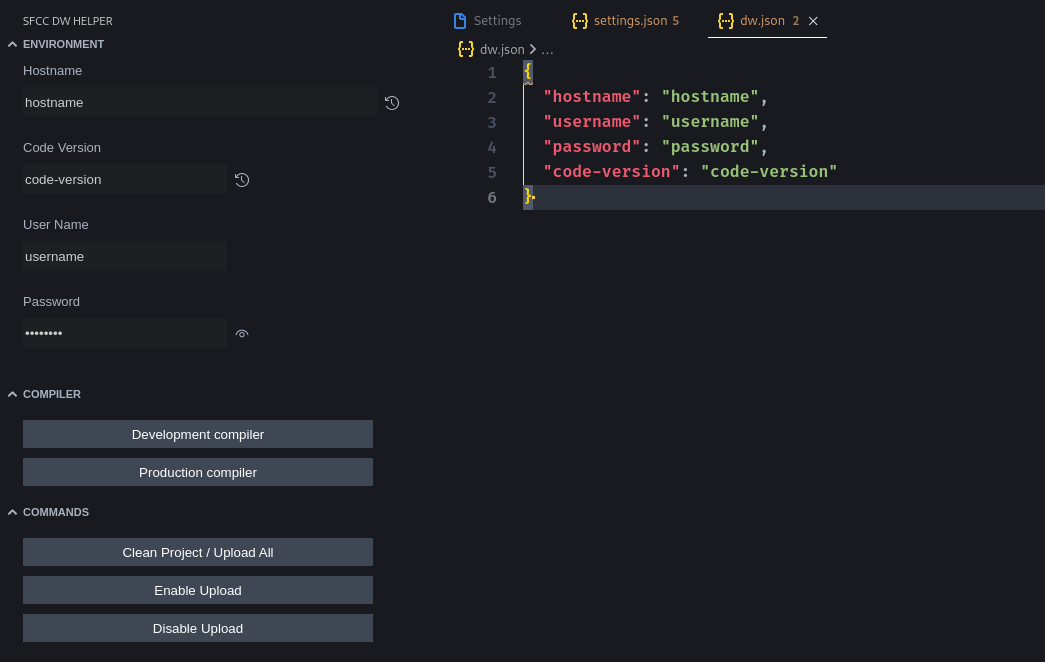
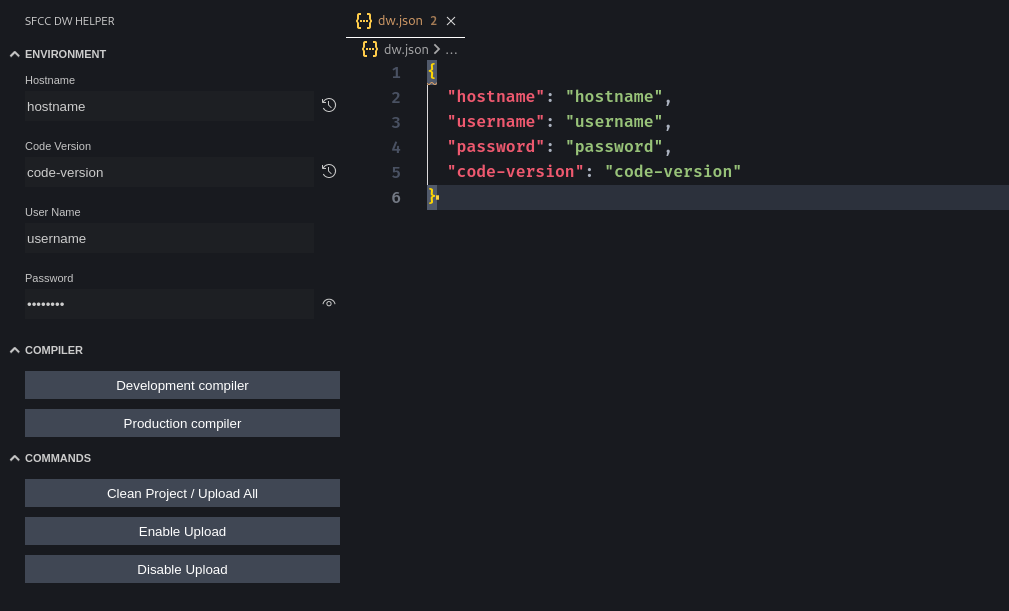
Layout fixes

diff --git a/src/webviews/components/Sidebar.svelte b/src/webviews/components/Sidebar.svelte
@@ -127,6 +127,7 @@
         font-family: Segoe WPC,Segoe UI,sans-serif;
         font-size: 13px;
         padding-right: 20px;
+        overflow-x: hidden;
     }
 
     input {
@@ -139,7 +140,7 @@
 
     input:focus{
         outline-offset: -1px;
-        outline-color: var(--vscode-focusBorder);
+        outline-color: var(--vscode-input-foreground);
     }
 
     button {
@@ -155,44 +156,42 @@
         background-color: var(--vscode-button-hoverBackground);
     }
 
-    button:focus{
-        outline-offset: -1px;
-        outline-color: var(--vscode-focusBorder);
-    }
+    button:focus {
+      outline: none;
+  }
     
     div#main{
-       min-width: 360px;
+       min-width: 315px;
        margin-top: 5px;
     }
     #hostname {
        margin-bottom: 10px; 
        width: 100%;
-       max-width: 325px;
+       width: 285px;
     }
     #codeVersion {
        margin-bottom: 10px; 
        width: 100%;
-       max-width: 200px;
+       width: 285px;
     }
     #userName {
        margin-bottom: 10px; 
        width: 100%;
-       max-width: 200px; 
+       width: 285px; 
     }
     #password {
        margin-bottom: 10px; 
        width: 100%;
-       max-width: 200px;
+       width: 285px;
     }
     
     #btnSvgPassword {
        width: 28px;
        height: 28px;
-       left: 225px;
+       left: 310px;
        position: absolute;
        color: transparent;
        background-color: transparent;
-       margin-top: 6px;
     }
 
     #btnSvgPassword:hover {
@@ -202,11 +201,10 @@
     #btnSvgHostname {
        width: 28px;
        height: 28px;
-       left: 350px;
+       left: 310px;
        position: absolute;
        color: transparent;
        background-color: transparent;
-       margin-top: 6px;
     }
 
     #btnSvgHostname:hover {
@@ -216,11 +214,28 @@
     #btnSvgCodeversion {
        width: 28px;
        height: 28px;
-       left: 225px;
+       left: 310px;
        position: absolute;
        color: transparent;
        background-color: transparent;
-       margin-top: 6px;
+    }
+
+    #svgLogoHistoryHostname {
+        left: 313px;
+        position: absolute;
+        top: 47px;
+    }
+
+    #svgLogoHistoryCodeversion {
+        left: 313px;
+        position: absolute;
+        top: 113px;
+    }
+
+    #svgLogoPassword {
+        left: 313px;
+        position: absolute;
+        top: 245px;
     }
 
     #btnSvgCodeversion:hover {
@@ -241,16 +256,14 @@
 
     .btn-prophet {
         width: 100%;
-        min-width: 250px;
+        width: 315px;
         margin-top: 10px;
-        max-width: 350px;
     }
 
     .btn-build {
         width: 100%;
-        min-width: 250px;
+        width: 315px;
         margin-top: 10px;
-        max-width: 350px;
     }
 
     .textInput {
@@ -276,7 +289,10 @@
                     changeJsonFile();
                 }} type="text" id="hostname">
         
-                <svelte:component this={History} />
+                <div id="svgLogoHistoryHostname">
+                    <svelte:component this={History} />
+                </div>
+
                 <button id="btnSvgHostname" on:click={()=>{
                     clickBtnHistory(hostnameConstant);
                 }}></button>  
@@ -289,8 +305,11 @@
                     changeProperty(e.target.value, codeversionPropertyShort);
                     changeJsonFile();
                 }} type="text" id="codeVersion">
-            
-                <svelte:component this={History} />
+                        
+                <div id="svgLogoHistoryCodeversion">
+                    <svelte:component this={History} />
+                </div>
+
                 <button id="btnSvgCodeversion" on:click={()=>{
                     clickBtnHistory(codeversionConstant);
                 }}></button>  
@@ -308,7 +327,10 @@
                     changeJsonFile();
                 }} type={isPasswordVisible ? "text" : "password"} id="password">
             
-                <svelte:component this={componentSelected} />
+                <div id="svgLogoPassword">
+                    <svelte:component this={componentSelected} />
+                </div>
+
                 <button id="btnSvgPassword" on:click={()=>{
                     buttonClick()
                 }}></button>            

diff --git a/src/webviews/components/CollapsibleSection.svelte b/src/webviews/components/CollapsibleSection.svelte
@@ -54,6 +54,10 @@
     margin-bottom: 0;
   }
 
+  button:focus {
+      outline: none;
+  }
+
   button[aria-expanded="true"] .openSection {
       display: none;
   }

diff --git a/CHANGELOG.md b/CHANGELOG.md
@@ -1,4 +1,7 @@
 # Change Log
+## [0.0.18]
+
+- Layout fixes
 ## [0.0.17]
 
 - Minor fixes
